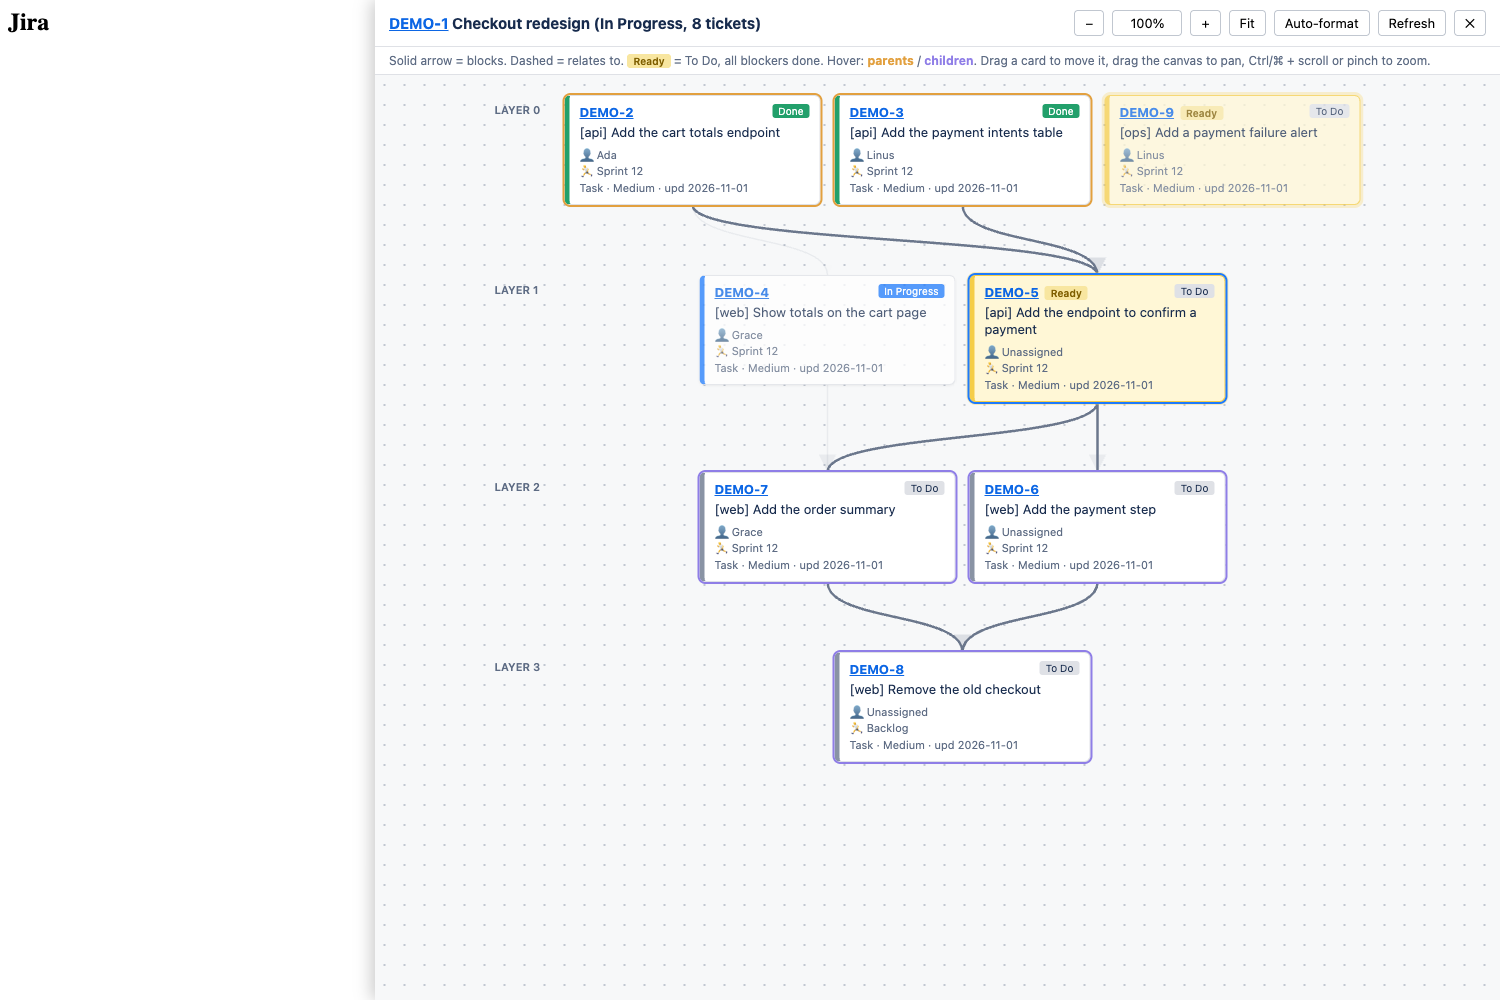
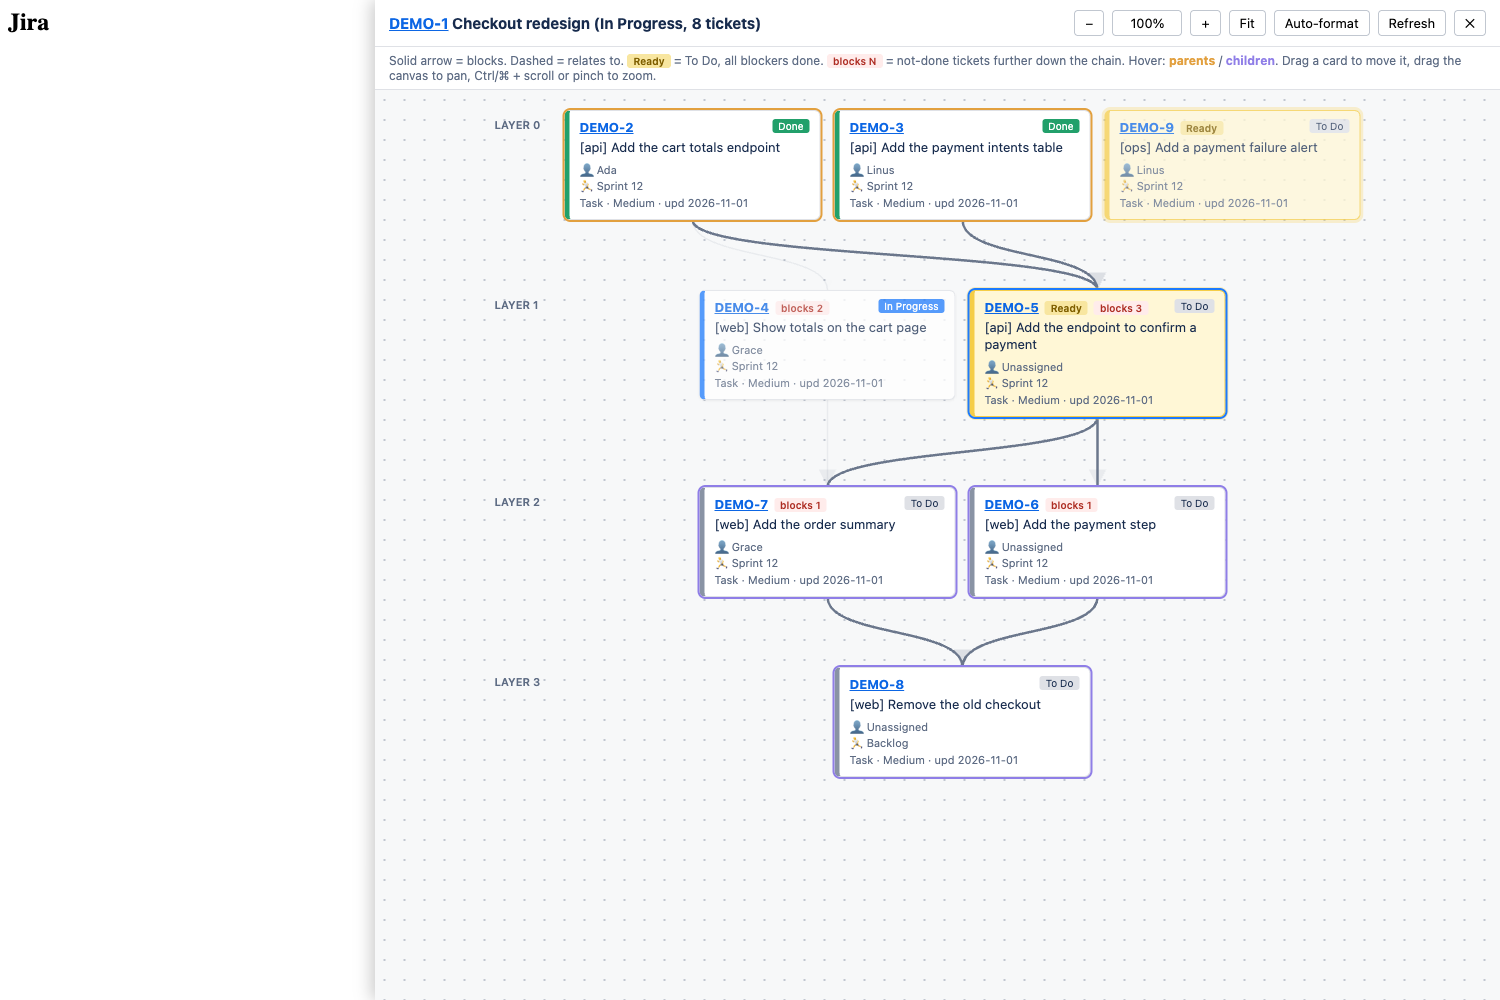
Show how many tickets each card blocks
- "blocks N" tag on not-done cards: not-done tickets anywhere below in the blocks chain.
- Full chain, not only tickets that become Ready right away. Two joint blockers
  of one ticket would otherwise both show 0.
- Smoke test asserts the count for every demo card.

diff --git a/extension/graph.js b/extension/graph.js
@@ -59,6 +59,7 @@ svg{position:absolute;inset:0;pointer-events:none;overflow:visible}
 .card.ready{background:#fff7d6;border-color:#f5cd47;box-shadow:0 0 0 3px #f5cd4755}
 .k{font-weight:700;color:#0c66e4}.st{float:right;font-size:10px;padding:1px 6px;border-radius:3px;background:#dfe1e6}
 .done .st{background:#22a06b;color:#fff}.indeterminate .st{background:#1d7afc;color:#fff}
+.bk{font-size:10px;font-weight:600;color:#ae2e24;background:#ffeceb;border-radius:3px;padding:1px 6px;margin-left:6px}
 .rd{font-size:10px;font-weight:600;color:#7f5f01;background:#f8e6a0;border-radius:3px;padding:1px 6px;margin-left:6px}
 .s{margin:4px 0 6px;line-height:1.3}.m{font-size:11px;color:#5e6c84;line-height:1.5}
 .dim .card{opacity:.25}.dim .card.on{opacity:1}.dim .card.self{outline:2px solid #1d7afc}
@@ -79,7 +80,7 @@ svg{position:absolute;inset:0;pointer-events:none;overflow:visible}
     const root = host.attachShadow({ mode: 'open' });
     root.innerHTML = `<style>${CSS}</style><div class="pane">
 <div class="bar"><h1>${esc(key)}</h1><button id="zo" title="Zoom out">−</button><button id="zr" class="zr" title="Reset to 100%">100%</button><button id="zi" title="Zoom in">+</button><button id="zf">Fit</button><button id="fmt">Auto-format</button><button id="ref">Refresh</button><button id="x" title="Close (Esc)">✕</button></div>
-<div class="sub">Solid arrow = blocks. Dashed = relates to. <span class="rd" style="margin:0">Ready</span> = To Do, all blockers done. Hover: <b style="color:#e2a03f">parents</b> / <b style="color:#8f7ee7">children</b>. Drag a card to move it, drag the canvas to pan, Ctrl/⌘ + scroll or pinch to zoom.</div>
+<div class="sub">Solid arrow = blocks. Dashed = relates to. <span class="rd" style="margin:0">Ready</span> = To Do, all blockers done. <span class="bk" style="margin:0">blocks N</span> = not-done tickets further down the chain. Hover: <b style="color:#e2a03f">parents</b> / <b style="color:#8f7ee7">children</b>. Drag a card to move it, drag the canvas to pan, Ctrl/⌘ + scroll or pinch to zoom.</div>
 <div class="scroll"><div class="msg">Loading…</div></div></div>`;
     document.body.append(host);
     root.getElementById('x').onclick = close;
@@ -123,13 +124,16 @@ svg{position:absolute;inset:0;pointer-events:none;overflow:visible}
       rows[r].sort((x, y) => m[x] - m[y]);
     });
 
+    // not-done tickets anywhere below k in the blocks chain
+    const below = (k, seen = new Set()) => { B.forEach(e => { if (e.from === k && !seen.has(e.to)) { seen.add(e.to); below(e.to, seen); } }); return seen; };
+    const blocks = k => by[k].cat === 'done' ? 0 : [...below(k)].filter(x => by[x].cat !== 'done').length;
     const ready = k => by[k].cat === 'new' && B.filter(e => e.to === k).every(e => by[e.from].cat === 'done');
     const W = 270, GAP = 70, LX = 70, pos = {};
     D.forEach(n => {
       const a = document.createElement('div');
       a.className = `card ${esc(n.cat)}${ready(n.key) ? ' ready' : ''}`;
       a.dataset.k = n.key;
-      a.innerHTML = `<a class="k" target="_blank" href="${location.origin}/browse/${esc(n.key)}">${esc(n.key)}</a>${ready(n.key) ? '<span class="rd">Ready</span>' : ''}<span class="st">${esc(n.status)}</span>
+      a.innerHTML = `<a class="k" target="_blank" href="${location.origin}/browse/${esc(n.key)}">${esc(n.key)}</a>${ready(n.key) ? '<span class="rd">Ready</span>' : ''}${blocks(n.key) ? `<span class="bk" title="Not-done tickets below this one in the blocks chain">blocks ${blocks(n.key)}</span>` : ''}<span class="st">${esc(n.status)}</span>
 <div class="s">${esc(n.summary)}</div><div class="m">👤 ${esc(n.assignee)}<br>🏃 ${esc(n.sprint)}<br>${esc(n.type)} · ${esc(n.priority)} · upd ${esc(n.updated)}</div>`;
       wrap.append(a);
       pos[n.key] = a;

diff --git a/README.md b/README.md
@@ -22,6 +22,7 @@ Layer 2   [to do]  [to do]
 - Rows are topological layers. A card depends only on cards above it.
 - Solid arrow = blocks. Dashed arrow = relates to.
 - Yellow card = **Ready**: the ticket is To Do and all its blockers are Done.
+- **blocks N** = the number of not-done tickets further down its chain. Use it to pick which Ready ticket to start first.
 - Hover a card: its parents (orange) and children (purple) light up, through the full chain.
 
 ## Install
